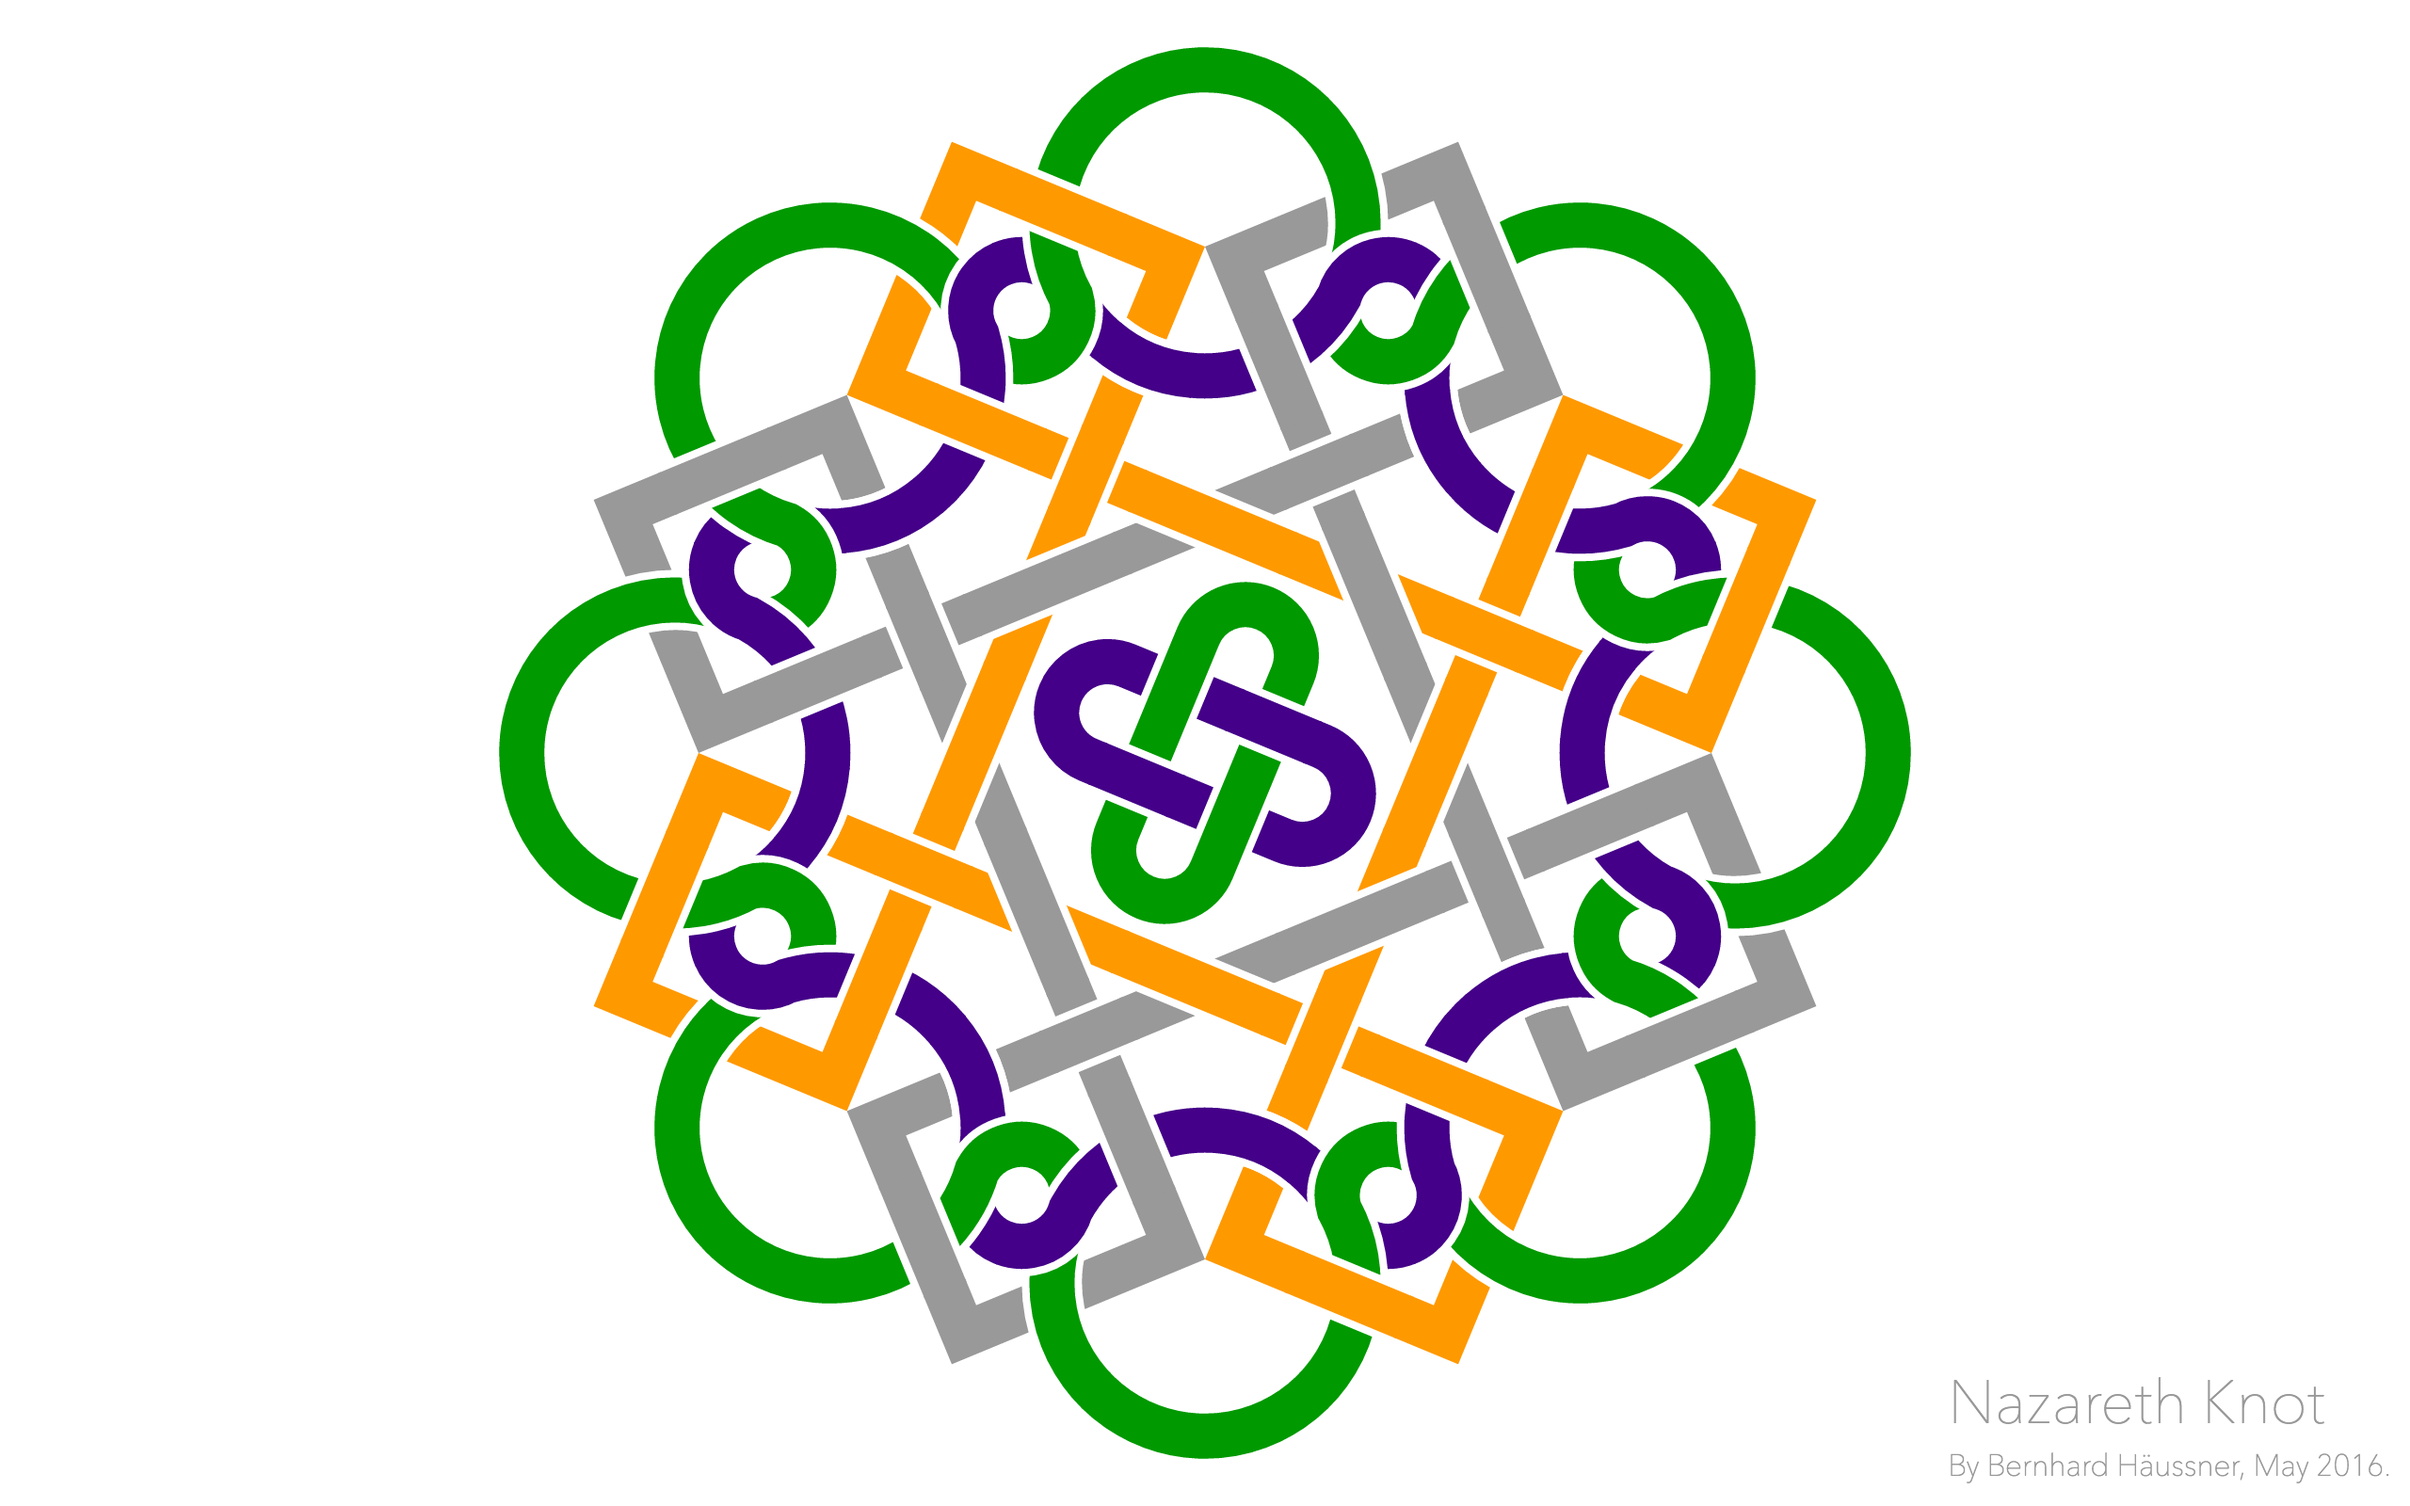
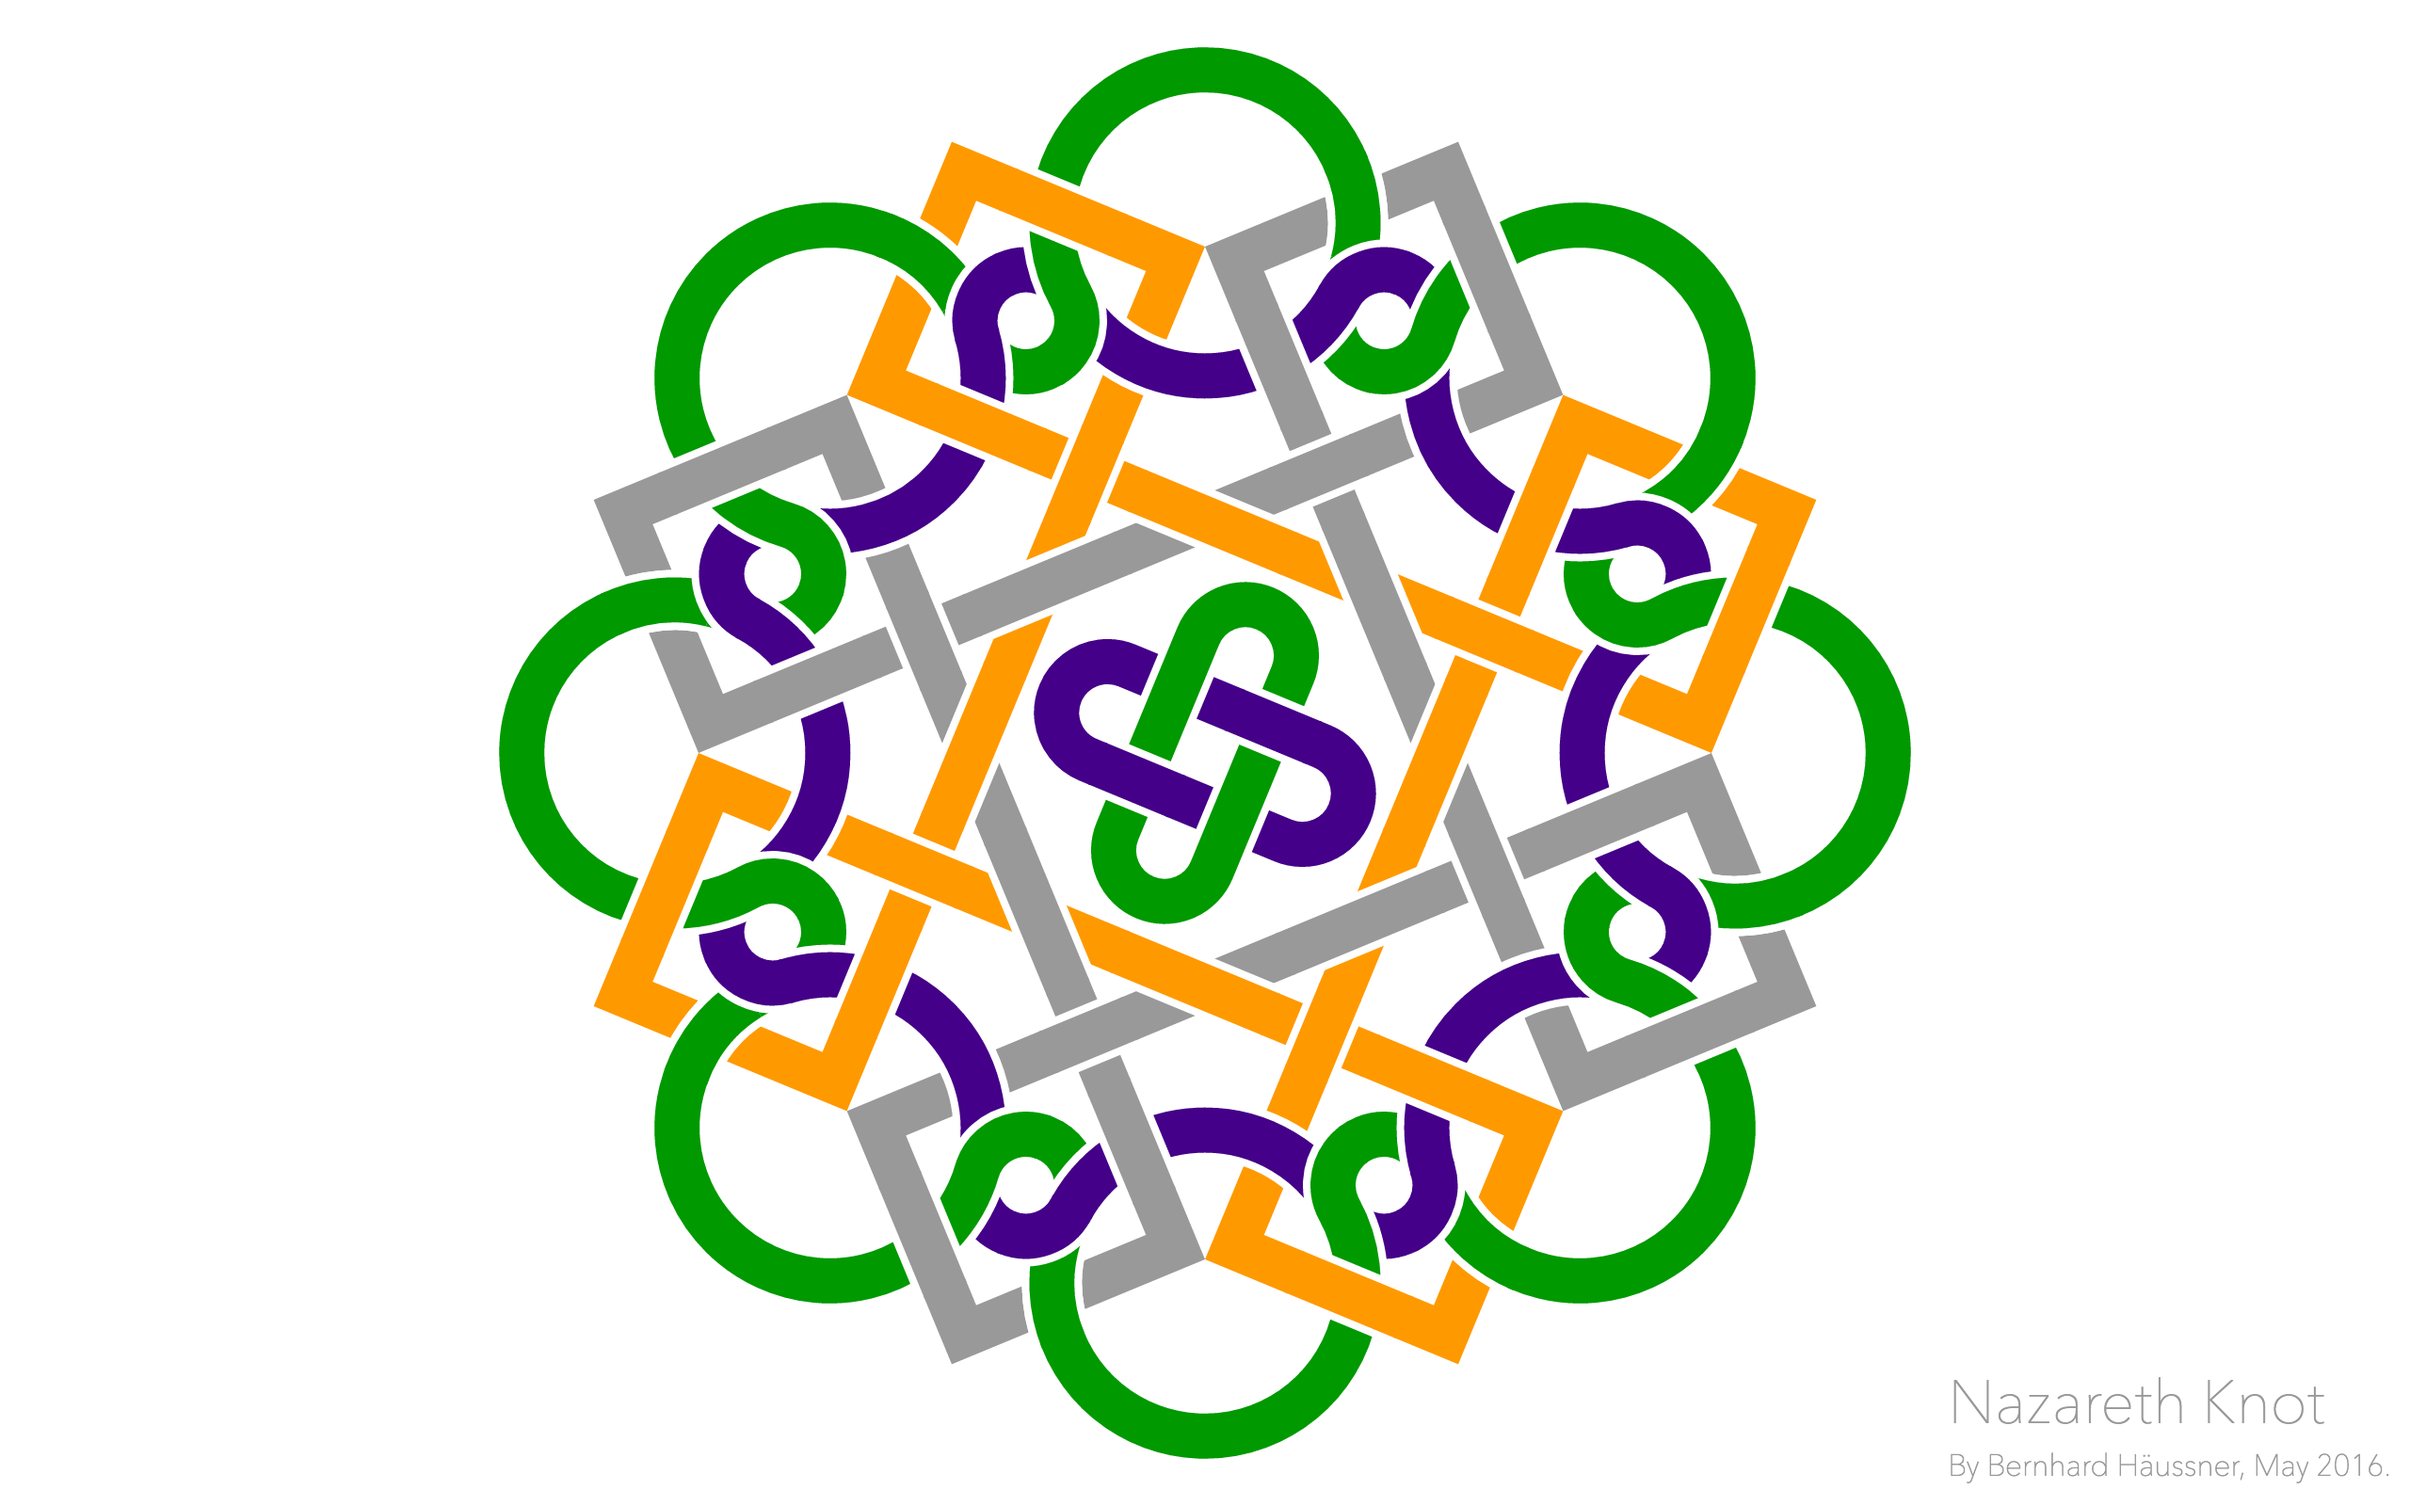
Fix a bug with slightly off arc sizes

diff --git a/index.html b/index.html
@@ -18,13 +18,15 @@
   .top, .bottom { stroke-width: 15px; fill: none; }
   .a { stroke: #999; }
   .b { stroke: #f90; }
-  .c, .e { stroke: #408; }
-  .d, .f { stroke: #090; }
+  .d, .e { stroke: #408; }
+  .c, .f { stroke: #090; }
   .white { stroke-width: 20px; fill: none; stroke: #fff; }
   .a.top, .b.top { stroke-dasharray: 0,20,40,110,40,35,55,55,30,63; }
-  .c.top { stroke-dasharray: 64,47,31.55,23; stroke-dashoffset: 36; }
+  .c.top { stroke-dasharray: 64,126,34.55,43; stroke-dashoffset: -29; }
   .a.top.white, .b.top.white { stroke-dasharray: 0,21,38,112,38,37,53,57,28,64; }
-  .c.top.white { stroke-dasharray: 63.5,48,30.55,23.53; stroke-dashoffset: 36; }
+  .c.top.white { stroke-dasharray: 63,128,32.55,44; stroke-dashoffset: -30; }
+  .d.top { stroke-dasharray: 25,133; }
+  .d.top.white { stroke-dasharray: 23,135; stroke-dashoffset: -1; }
   .e.top { stroke-dasharray: 29,94; stroke-dashoffset: -56; }
   .e.top.white { stroke-dasharray: 27,96; stroke-dashoffset: -57; }
 </style>
@@ -37,9 +39,9 @@
       <path id="path-b" d="M -164.059 9.799 L -193.137 80.0 L -122.936 109.078 L -9.799 -164.059 L -80.0 -193.137 L -109.078 -122.936 L 164.059 -9.799 L 193.137 -80.0 L 122.936 -109.078 L 9.799 164.059 L 80.0 193.137 L 109.078 122.936 Z" />
     
     
-      <path id="path-c" d="M -44.579 151.623 A 16.936 16.936 0 1 1 -75.692 138.736 A 50.809 50.809 0 0 0 -138.736 75.692 A 16.936 16.936 0 1 1 -151.623 44.579 A 50.809 50.809 0 0 0 -151.623 -44.579 A 16.936 16.936 0 1 1 -138.736 -75.692 A 50.809 50.809 0 0 0 -75.692 -138.736 A 16.936 16.936 0 1 1 -44.579 -151.623 A 50.809 50.809 0 0 0 44.579 -151.623 A 16.936 16.936 0 1 1 75.692 -138.736 A 50.809 50.809 0 0 0 138.736 -75.692 A 16.936 16.936 0 1 1 151.623 -44.579 A 50.809 50.809 0 0 0 151.623 44.579 A 16.936 16.936 0 1 1 138.736 75.692 A 50.809 50.809 0 0 0 75.692 138.736 A 16.936 16.936 0 1 1 44.579 151.623 A 50.809 50.809 0 0 0 -44.579 151.623 Z" />
+      <path id="path-c" d="M -44.579 151.623 A 16.936 16.936 0 1 0 -75.692 138.736 A 50.809 50.809 0 1 1 -138.736 75.692 A 16.936 16.936 0 1 0 -151.623 44.579 A 50.809 50.809 0 1 1 -151.623 -44.579 A 16.936 16.936 0 1 0 -138.736 -75.692 A 50.809 50.809 0 1 1 -75.692 -138.736 A 16.936 16.936 0 1 0 -44.579 -151.623 A 50.809 50.809 0 1 1 44.579 -151.623 A 16.936 16.936 0 1 0 75.692 -138.736 A 50.809 50.809 0 1 1 138.736 -75.692 A 16.936 16.936 0 1 0 151.623 -44.579 A 50.809 50.809 0 1 1 151.623 44.579 A 16.936 16.936 0 1 0 138.736 75.692 A 50.809 50.809 0 1 1 75.692 138.736 A 16.936 16.936 0 1 0 44.579 151.623 A 50.809 50.809 0 1 1 -44.579 151.623 Z" />
     
-      <path id="path-d" d="M -44.579 151.623 A 16.936 16.936 0 0 0 -75.692 138.736 A 50.809 50.809 0 1 1 -138.736 75.692 A 16.936 16.936 0 0 0 -151.623 44.579 A 50.809 50.809 0 1 1 -151.623 -44.579 A 16.936 16.936 0 0 0 -138.736 -75.692 A 50.809 50.809 0 1 1 -75.692 -138.736 A 16.936 16.936 0 0 0 -44.579 -151.623 A 50.809 50.809 0 1 1 44.579 -151.623 A 16.936 16.936 0 0 0 75.692 -138.736 A 50.809 50.809 0 1 1 138.736 -75.692 A 16.936 16.936 0 0 0 151.623 -44.579 A 50.809 50.809 0 1 1 151.623 44.579 A 16.936 16.936 0 0 0 138.736 75.692 A 50.809 50.809 0 1 1 75.692 138.736 A 16.936 16.936 0 0 0 44.579 151.623 A 50.809 50.809 0 1 1 -44.579 151.623 Z" />
+      <path id="path-d" d="M -44.579 151.623 A 16.936 16.936 0 0 1 -75.692 138.736 A 50.809 50.809 0 0 0 -138.736 75.692 A 16.936 16.936 0 0 1 -151.623 44.579 A 50.809 50.809 0 0 0 -151.623 -44.579 A 16.936 16.936 0 0 1 -138.736 -75.692 A 50.809 50.809 0 0 0 -75.692 -138.736 A 16.936 16.936 0 0 1 -44.579 -151.623 A 50.809 50.809 0 0 0 44.579 -151.623 A 16.936 16.936 0 0 1 75.692 -138.736 A 50.809 50.809 0 0 0 138.736 -75.692 A 16.936 16.936 0 0 1 151.623 -44.579 A 50.809 50.809 0 0 0 151.623 44.579 A 16.936 16.936 0 0 1 138.736 75.692 A 50.809 50.809 0 0 0 75.692 138.736 A 16.936 16.936 0 0 1 44.579 151.623 A 50.809 50.809 0 0 0 -44.579 151.623 Z" />
     
     
       
@@ -61,6 +63,8 @@
   <use xlink:href="#path-b" class="b top white" />
   <use xlink:href="#path-a" class="a top" />
   <use xlink:href="#path-b" class="b top" />
+  <use xlink:href="#path-d" class="d top white" />
+  <use xlink:href="#path-d" class="d top" />
   <use xlink:href="#path-e" class="e bottom" />
   <use xlink:href="#path-f" class="f bottom white" />
   <use xlink:href="#path-f" class="f bottom" />
